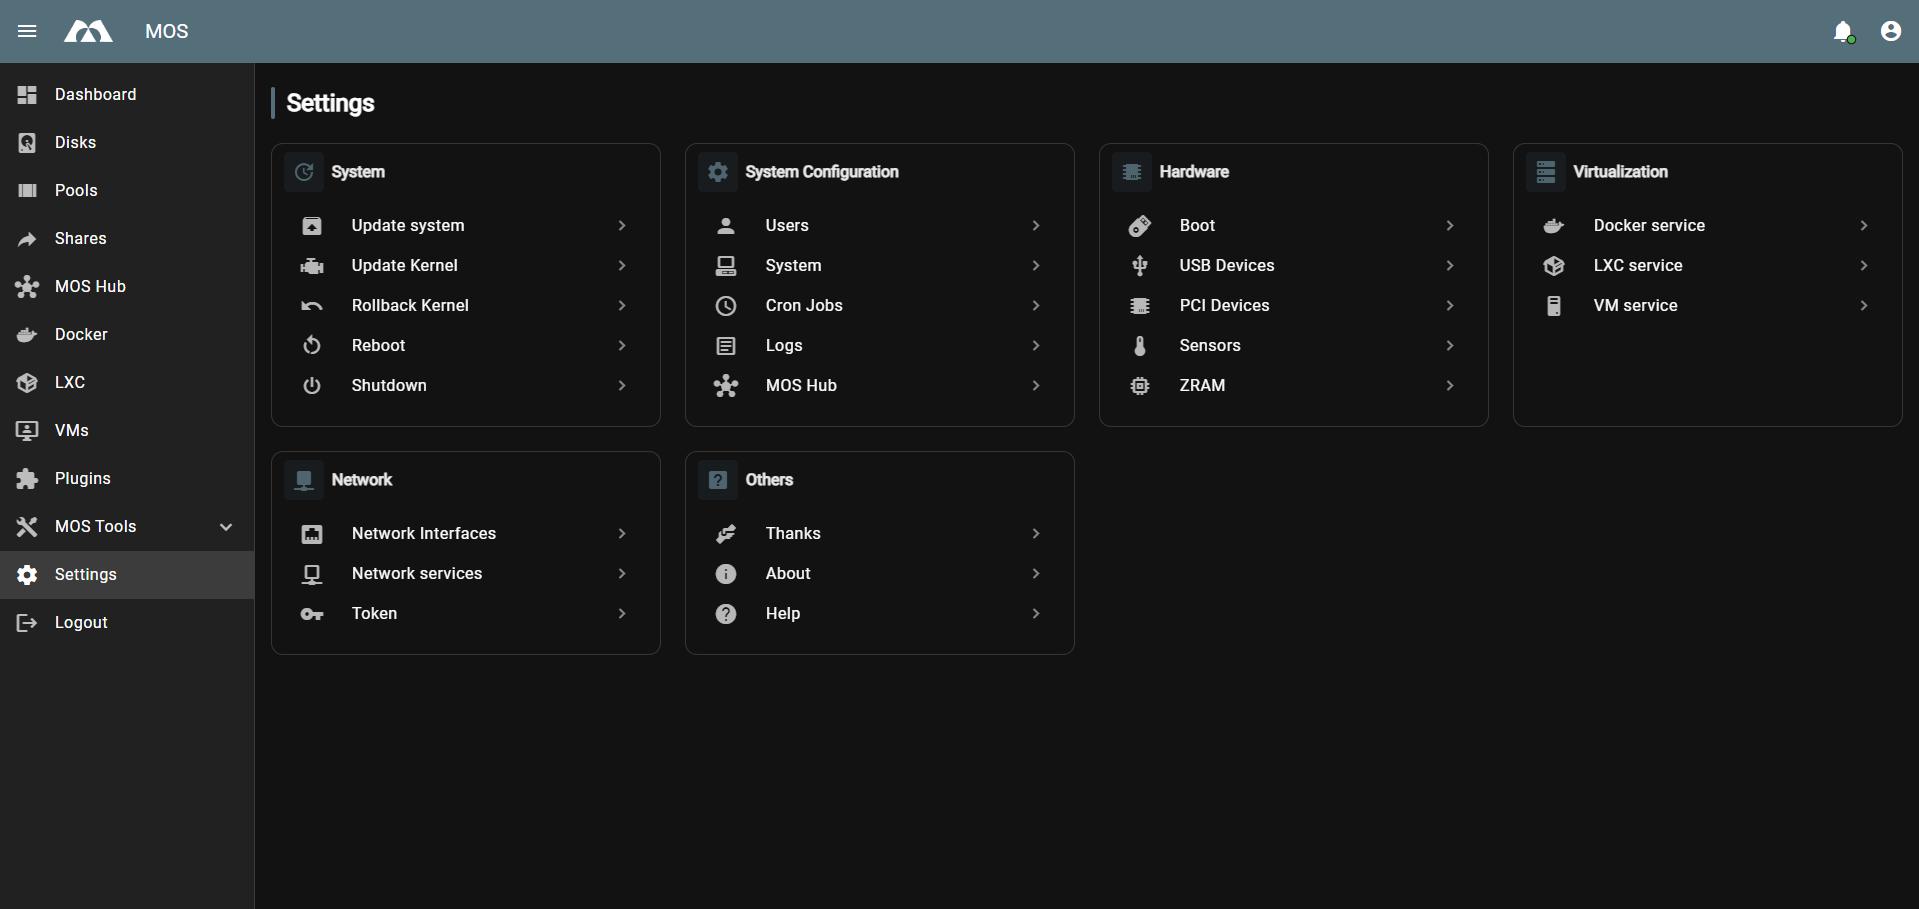
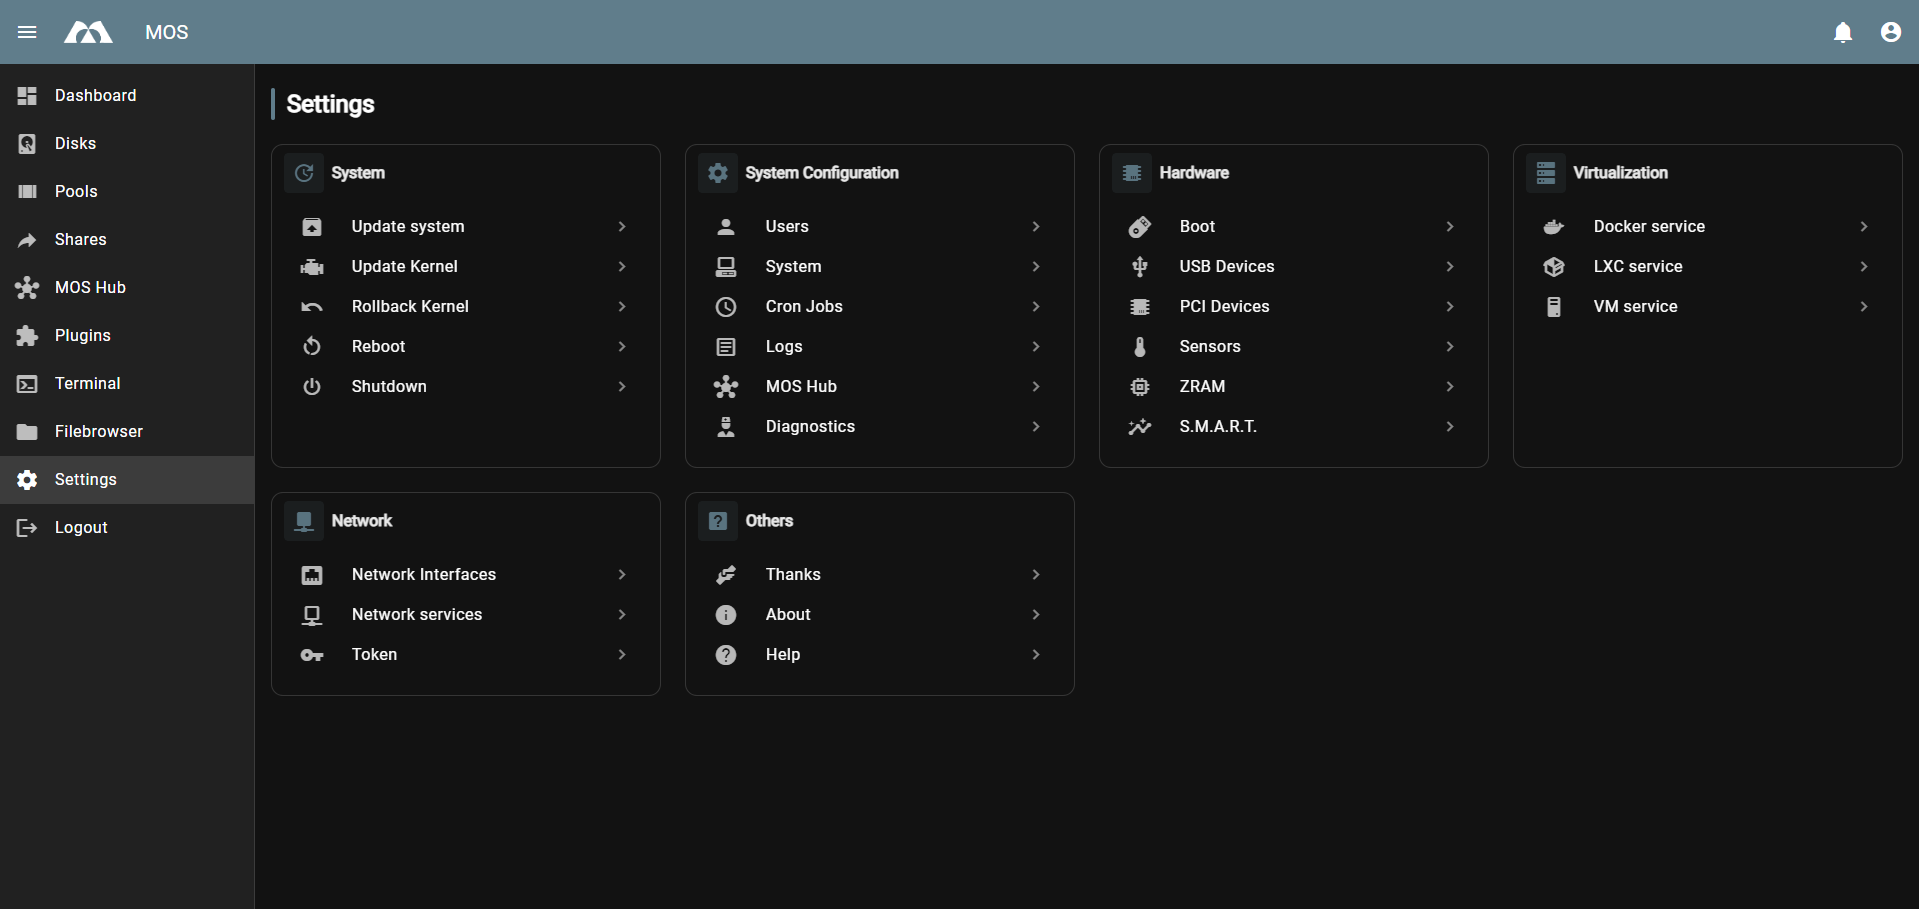
Add S.M.A.R.T

diff --git a/sidebars.js b/sidebars.js
@@ -33,6 +33,7 @@ const sidebars = {
         { type: 'doc', id: 'System-Management/Boot', label: 'Boot' },
         { type: 'doc', id: 'System-Management/Drivers', label: 'Drivers' },
         { type: 'doc', id: 'System-Management/ZFS', label: 'ZFS' },
+        { type: 'doc', id: 'System-Management/S.M.A.R.T.', label: 'S.M.A.R.T.' },
         {
           type: 'category',
           label: '💻 System Configuration',

diff --git a/docs/System-Management/S.M.A.R.T.md b/docs/System-Management/S.M.A.R.T.md
@@ -1,0 +1,118 @@
+---
+sidebar_label: 📊 S.M.A.R.T.
+sidebar_position: 4
+---
+
+# 📊 S.M.A.R.T.
+
+S.M.A.R.T. (Self-Monitoring, Analysis, and Reporting Technology) is a monitoring system built into storage devices (HDD, SSD, NVMe) that detects and reports various indicators of drive reliability. MOS integrates S.M.A.R.T. monitoring directly into the WebUI, allowing you to keep an eye on your drives' health without any additional tools.
+
+---
+
+## ⚙ S.M.A.R.T. Settings
+
+Navigate to **Settings → Hardware → S.M.A.R.T.** to configure the global S.M.A.R.T. monitoring settings.
+
+![MOS Settings](/img/MOS_Settings.png)
+
+![S.M.A.R.T. Settings](/img/system/S.M.A.R.T_Settings.png)
+
+### Temperature Limits
+
+Define warning and critical temperature thresholds per drive type. MOS will send a notification when a threshold is exceeded.
+
+| Drive Type | Warning (default) | Critical (default) |
+|------------|-------------------|-------------------|
+| HDD | 45 °C | 55 °C |
+| SSD | 55 °C | 70 °C |
+| NVMe | 65 °C | 80 °C |
+
+:::warning
+When the **Critical** temperature threshold is exceeded, MOS will send an urgent notification. Check your drive and system cooling immediately.
+:::
+
+### Default Monitored Attributes
+
+These S.M.A.R.T. attributes are monitored by default for all drives. If any of these exceed their threshold, a notification is triggered.
+
+| ID | Attribute | Description |
+|----|-----------|-------------|
+| 5 | Reallocated Sectors | Number of sectors the drive has remapped due to read/write errors. Any value above 0 is a warning sign. |
+| 187 | Reported Uncorrectable Errors | Errors that could not be corrected by the drive's ECC. Should always be 0. |
+| 198 | Offline Uncorrectable Sectors | Sectors found uncorrectable during offline scanning. Indicates physical damage. |
+| 199 | UDMA CRC Errors | Errors during data transfer between drive and controller — often caused by a faulty cable or connector. |
+
+:::tip
+Individual drives can override these defaults in their own S.M.A.R.T. configuration — see below.
+:::
+
+### Boot Check
+
+When enabled, MOS automatically runs a S.M.A.R.T. check on all drives during system startup and sends a notification if any issues are detected.
+
+### Attribute Notification Cooldown
+
+Defines the minimum time (in minutes) between repeated notifications for the same attribute. Default is **150 minutes**.
+
+This prevents notification spam if an attribute is continuously above its threshold.
+
+---
+
+## 🖥 Per-Disk S.M.A.R.T. Info
+
+You can view and configure S.M.A.R.T. settings for each individual drive directly from the **Disks** page.
+
+Click the action menu on any disk and select **SMART infos**:
+
+![Disk Action Menu](/img/system/Disk_Action_Menu.png)
+
+The S.M.A.R.T. info panel shows:
+
+![Disk S.M.A.R.T. Info](/img/system/Disk_S.M.A.R.T_Info.png)
+
+### Device Information
+
+| Field | Description |
+|-------|-------------|
+| **Device** | The system device path (e.g. `/dev/nvme0n1`) |
+| **Model** | Drive model name |
+| **Serial** | Drive serial number |
+| **Type** | Drive type (`nvme`, `ssd`, `hdd`) |
+| **Status** | Overall S.M.A.R.T. health — `PASSED` or `FAILED` |
+| **Temperature** | Current drive temperature in °C |
+| **Power On Hours** | Total hours the drive has been powered on |
+| **Power Cycle Count** | Number of times the drive has been powered on/off |
+| **Error Count** | Total number of errors reported by the drive |
+
+### Monitoring Configuration
+
+Each drive can override the global S.M.A.R.T. defaults individually:
+
+- **Temperature Warning / Critical** — per-drive temperature thresholds
+- **Monitored Attributes** — enable or disable specific attributes per drive
+- **Attribute Notification Cooldown** — per-drive cooldown override
+
+Click **Save** to apply the per-drive configuration.
+
+### Attributes Table
+
+Shows all S.M.A.R.T. attributes reported by the drive with the following columns:
+
+| Column | Description |
+|--------|-------------|
+| **ID** | Attribute identifier |
+| **Name** | Attribute name |
+| **Status** | Current status (`ok`, `warning`, `critical`) |
+| **Value** | Current raw value |
+| **Worst** | Worst recorded value |
+| **Threshold** | Threshold below which the drive is considered failing |
+
+---
+
+:::info
+Not all drives report all S.M.A.R.T. attributes. NVMe drives use a different attribute set than traditional HDDs and SSDs.
+:::
+
+---
+
+_Parts of this documentation were created with the assistance of AI tools. All AI-generated content has undergone review, but it may still contain inaccuracies, omissions, or outdated information._

diff --git a/docs/Quick-Start/WebUI-Overview.md b/docs/Quick-Start/WebUI-Overview.md
@@ -165,6 +165,27 @@ The Dashboard displays multiple information panels providing a real-time system 
 | **Network Panel** | Displays real-time network traffic for active interfaces |
 | **Pools Panel** | Shows storage pool usage and capacity |
 | **Disks Panel** | Displays disk activity and temperature for active devices |
+| **Plugin Widgets** | Additional dashboard panels provided by installed plugins (e.g. DVB drivers, Nvidia GPU, Sensors) |
+
+---
+
+## 🧩 Plugin Widgets
+
+Plugins can provide additional dashboard widgets that display relevant information directly on the Dashboard.
+
+![Plugin Driver Widgets Dashboard](/img/system/Plugin_Driver_Widgets_Dashboard.png)
+
+Examples shown above include DVB adapter info, GPU stats (Nvidia), temperature, voltage and other sensor data.
+
+### Visibility Control
+
+Each plugin widget can be toggled on or off individually using the **visibility menu** in the bottom right corner of the Dashboard.
+
+![Sensors Visibility](/img/system/Sensors_Visibility.png)
+
+:::tip
+Not all plugins support dashboard widgets. Only plugins that provide widget support will appear in the visibility menu.
+:::
 
 ---
 
